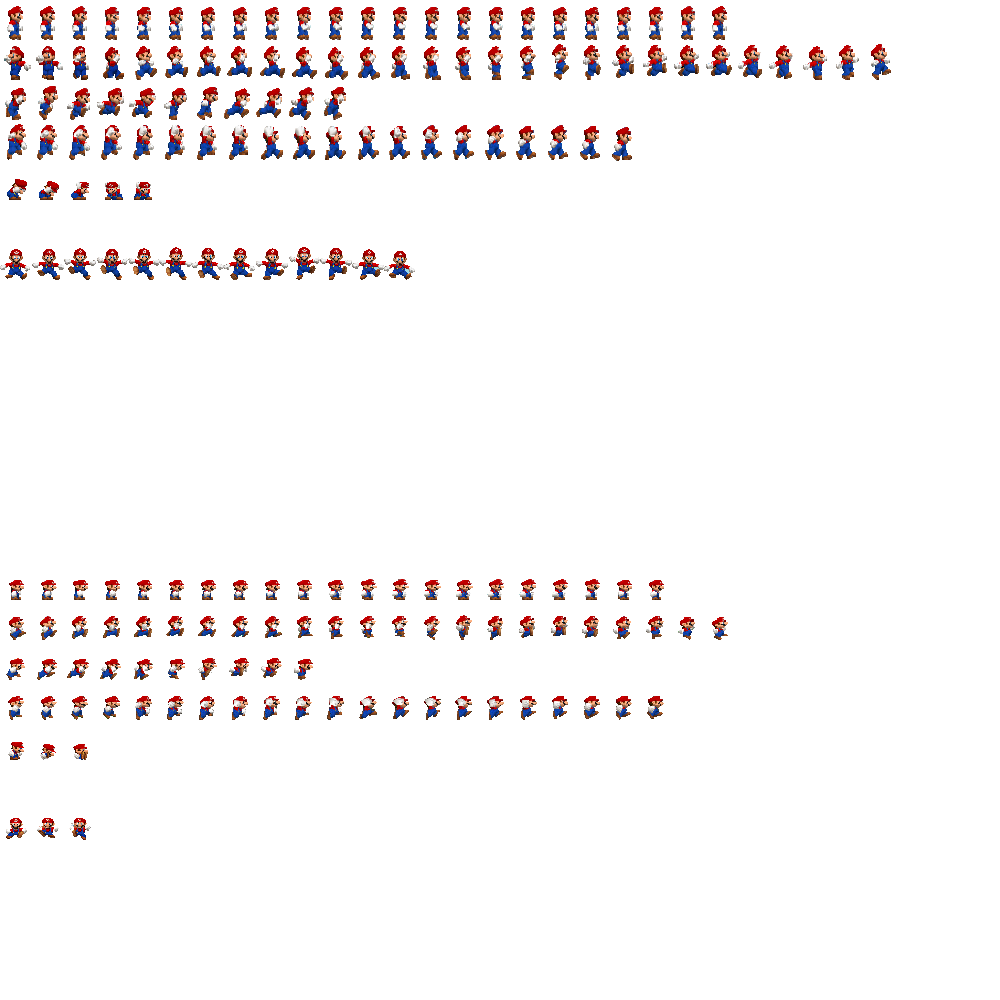
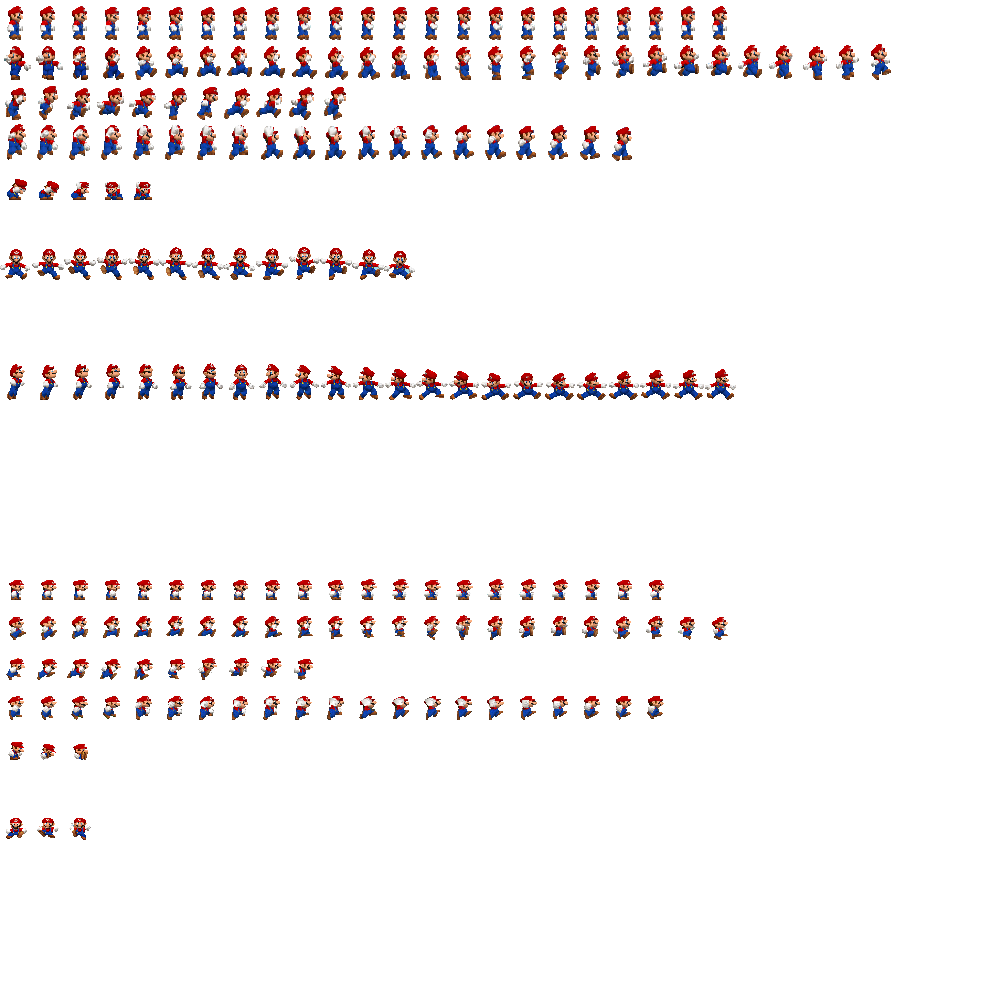
Clear 구현

Changed region(s): [[0.0, 0.372, 0.744, 0.403]]

diff --git a/newSuperMario/Mario_class.py b/newSuperMario/Mario_class.py
@@ -192,6 +192,11 @@ class IdleState:
                 hero.JUMP = True
                 hero.frame = 0
 
+            global BOOL_CLEAR
+            if BOOL_CLEAR:
+                hero.add_event(CLEAR)
+                hero.frame = 0
+
     def draw(hero):
         if hero.grow >= 1:  # 성장 후
             if hero.sit == 1:
@@ -394,6 +399,11 @@ class RunState:
                 hero.JUMP = True
                 hero.frame = 0
 
+            global BOOL_CLEAR
+            if BOOL_CLEAR:
+                hero.add_event(CLEAR)
+                hero.frame = 0
+
     def draw(hero):
         if hero.grow >= 1:  # 성장 후
             if hero.y > hero.py:
@@ -508,21 +518,37 @@ class ClearState:
         pass
 
     def do(hero):
-        pass
+        hero.frame = (hero.frame + 10 * game_framework.frame_time)
+
+        if hero.frame > 22:
+            hero.frame = 22
+
+        hero.x += 300.0 * game_framework.frame_time
+        hero.y += 300.0 * game_framework.frame_time
+
+        if hero.y >= 1000:
+            global BOOL_CLEAR
+            game_framework.change_state(Life_state) # 다음 장면
+            BOOL_CLEAR = False
 
     def draw(hero):
-        pass
+        hero.image.clip_composite_draw(int(hero.frame) * 32, 1000 - 10 * 40, 32, 40, 0, 'h', hero.x, hero.y,
+                                       hero.size[0], hero.size[1])
+
 
 next_state_table = {
 IdleState:{RIGHT_DOWN: RunState, LEFT_DOWN: RunState, RIGHT_UP: IdleState, LEFT_UP: IdleState,
            UP_DOWN: IdleState, UP_UP: IdleState, DOWN_DOWN: IdleState, DOWN_UP: IdleState,
-           STOP_RUN: IdleState, DIE: DieState , SPACE: IdleState},
+           STOP_RUN: IdleState, DIE: DieState , SPACE: IdleState, CLEAR: ClearState},
 RunState:{RIGHT_DOWN: RunState, LEFT_DOWN: RunState, RIGHT_UP: RunState, LEFT_UP: RunState,
           UP_DOWN: RunState, UP_UP: RunState, DOWN_DOWN: IdleState, DOWN_UP: RunState,
-          STOP_RUN: IdleState, DIE: DieState , SPACE: RunState},
+          STOP_RUN: IdleState, DIE: DieState , SPACE: RunState, CLEAR: ClearState},
 DieState:{RIGHT_DOWN: DieState, LEFT_DOWN: DieState, RIGHT_UP: DieState, LEFT_UP: DieState,
           UP_DOWN: DieState, UP_UP: DieState, DOWN_DOWN: DieState, DOWN_UP: DieState,
-          STOP_RUN: IdleState, DIE: DieState, SPACE: DieState}
+          STOP_RUN: IdleState, DIE: DieState, SPACE: DieState, CLEAR: ClearState},
+ClearState:{RIGHT_DOWN: ClearState, LEFT_DOWN: ClearState, RIGHT_UP: ClearState, LEFT_UP: ClearState,
+          UP_DOWN: ClearState, UP_UP: ClearState, DOWN_DOWN: ClearState, DOWN_UP: ClearState,
+          STOP_RUN: ClearState, DIE: ClearState, SPACE: ClearState, CLEAR: ClearState}
 }
 
 class hero:
@@ -539,7 +565,7 @@ class hero:
         self.velocity = 0
         self.collect = 0
         self.xspeed = 0
-        self.xMAX = 500.0
+        self.xMAX = 5000.0
         self.xa = 4.0
         self.frame = 0
         self.fs = 0
@@ -600,110 +626,115 @@ class hero:
         global SET_BLOCK
         global DEL_TIME
         global temp_grow, temp2_grow
+        global BOOL_CLEAR
+        if not BOOL_CLEAR:
+            for eat in coin + item:  # 먹으면 사라지는 객체
+                if contact_aAndb(self, eat) > 0:
+                    if eat.ability == 0:
+                        coin.remove(eat)
+                    elif eat.ability >= 300 and eat.ability <= 304:
+                        if eat.ability == 300:  # 버섯
+                            if self.grow < 1:
+                                DEL_TIME = 0
+                                temp2_grow = self.grow
+                                temp_grow = 1
+                        elif eat.ability == 302:  # 꽃
+                            if self.grow < 2:
+                                DEL_TIME = 0
+                                temp2_grow = self.grow
+                                temp_grow = 2
 
-        for eat in coin + item:  # 먹으면 사라지는 객체
-            if contact_aAndb(self, eat) > 0:
-                if eat.ability == 0:
-                    coin.remove(eat)
-                elif eat.ability >= 300 and eat.ability <= 304:
-                    if eat.ability == 300:  # 버섯
-                        if self.grow < 1:
-                            DEL_TIME = 0
-                            temp2_grow = self.grow
-                            temp_grow = 1
-                    elif eat.ability == 302:  # 꽃
-                        if self.grow < 2:
-                            DEL_TIME = 0
-                            temp2_grow = self.grow
-                            temp_grow = 2
+                        item.remove(eat)
+                    game_world.remove_object(eat)
 
-                    item.remove(eat)
-                game_world.remove_object(eat)
+            for block in Qblock + brick + skbrick + Steelblock:  # 블럭
+                if contact_aAndb(self, block) == 2:  # 위서 아래로
+                    if self.py < block.y + block.size[1] + 3:
+                        self.py = block.y + block.size[1] + 3
+                    if block.ability == 99:
+                        self.py = block.y + block.size[1]
+                    SET_BLOCK = block
+                elif contact_aAndb(self, block) == 3:  # 좌우
+                    self.x -= self.velocity * self.xspeed * game_framework.frame_time
+                    if self.cur_state == IdleState and self.velocity == 0:
+                        self.x -= self.dir * self.xspeed * game_framework.frame_time
+                elif contact_aAndb(self, block) == 1:  # 아래서 위로
+                    self.JUMP = False
+                    if block.ability >= 100 and block.ability <= 109:
+                        if block.ability == 100:
+                            t = object_class.debris(block.crex, block.crey + 24, 201)
+                            t.movex = block.movex
+                            t.movey = block.movey
+                            game_world.add_object(t, 1)
 
-        for block in Qblock + brick + skbrick + Steelblock:  # 블럭
-            if contact_aAndb(self, block) == 2:  # 위서 아래로
-                if self.py < block.y + block.size[1] + 3:
-                    self.py = block.y + block.size[1] + 3
-                if block.ability == 99:
-                    self.py = block.y + block.size[1]
-                SET_BLOCK = block
-            elif contact_aAndb(self, block) == 3:  # 좌우
-                self.x -= self.velocity * self.xspeed * game_framework.frame_time
-                if self.cur_state == IdleState and self.velocity == 0:
-                    self.x -= self.dir * self.xspeed * game_framework.frame_time
-            elif contact_aAndb(self, block) == 1:  # 아래서 위로
-                self.JUMP = False
-                if block.ability >= 100 and block.ability <= 109:
-                    if block.ability == 100:
+                        if block.ability >= 101:
+                            t = object_class.object_item(block.crex, block.crey + 25, 1299 + (block.ability % 100))
+                            t.movex = block.movex
+                            t.movey = block.movey
+                            t.set_block = block
+                            t.frame = 0
+                            item.append(t)
+                            game_world.add_object(t, 1)
+
+                        block.ability = block.ability + 10
+                        block.frame = 0
+                        block.fs = 0
+
+                    if block.ability == 4:
+                        block.ability = 5
+                    elif block.ability == 5:
+                        block.ability = 4
+
+                    if block.ability == 2 and self.grow >= 1:
+                        if block in brick:
+                            brick.remove(block)
+                        game_world.remove_object(block)
+
+                        t = object_class.debris(block.crex - 5, block.crey, 200, 1, 1)
+                        t.movex = block.movex
+                        t.movey = block.movey
+                        game_world.add_object(t, 1)
+
+                        t = object_class.debris(block.crex + 5, block.crey, 200, -1)
+                        t.movex = block.movex
+                        t.movey = block.movey
+                        game_world.add_object(t, 1)
+
+                        t = object_class.debris(block.crex, block.crey + 20, 200, 1, 1)
+                        t.movex = block.movex
+                        t.movey = block.movey
+                        game_world.add_object(t, 1)
+
+                        t = object_class.debris(block.crex, block.crey + 20, 200, -1)
+                        t.movex = block.movex
+                        t.movey = block.movey
+                        game_world.add_object(t, 1)
+
+                    if block.ability == 3:
                         t = object_class.debris(block.crex, block.crey + 24, 201)
                         t.movex = block.movex
                         t.movey = block.movey
                         game_world.add_object(t, 1)
 
-                    if block.ability >= 101:
-                        t = object_class.object_item(block.crex, block.crey + 25, 1299 + (block.ability % 100))
-                        t.movex = block.movex
-                        t.movey = block.movey
-                        t.set_block = block
-                        t.frame = 0
-                        item.append(t)
-                        game_world.add_object(t, 1)
 
-                    block.ability = block.ability + 10
-                    block.frame = 0
-                    block.fs = 0
-
-                if block.ability == 4:
-                    block.ability = 5
-                elif block.ability == 5:
-                    block.ability = 4
-
-                if block.ability == 2 and self.grow >= 1:
-                    if block in brick:
-                        brick.remove(block)
-                    game_world.remove_object(block)
-
-                    t = object_class.debris(block.crex - 5, block.crey, 200, 1, 1)
-                    t.movex = block.movex
-                    t.movey = block.movey
-                    game_world.add_object(t, 1)
-
-                    t = object_class.debris(block.crex + 5, block.crey, 200, -1)
-                    t.movex = block.movex
-                    t.movey = block.movey
-                    game_world.add_object(t, 1)
-
-                    t = object_class.debris(block.crex, block.crey + 20, 200, 1, 1)
-                    t.movex = block.movex
-                    t.movey = block.movey
-                    game_world.add_object(t, 1)
-
-                    t = object_class.debris(block.crex, block.crey + 20, 200, -1)
-                    t.movex = block.movex
-                    t.movey = block.movey
-                    game_world.add_object(t, 1)
-
-                if block.ability == 3:
-                    t = object_class.debris(block.crex, block.crey + 24, 201)
-                    t.movex = block.movex
-                    t.movey = block.movey
-                    game_world.add_object(t, 1)
+            for block in grounds:  # 블럭
+                if contact_aAndb(self, block) == 2:  # 위서 아래로
+                    if self.py < block.y + block.size[1] + self.size[1] / 2 + 1:
+                        self.py = block.y + block.size[1] + self.size[1] / 2 + 1
+                    SET_BLOCK = block
+                elif contact_aAndb(self, block) == 3:  # 좌우
+                    self.x -= self.velocity * self.xspeed * game_framework.frame_time
+                    if self.cur_state == IdleState and self.velocity == 0:
+                        self.x -= self.dir * self.xspeed * game_framework.frame_time
 
 
-        for block in grounds:  # 블럭
-            if contact_aAndb(self, block) == 2:  # 위서 아래로
-                if self.py < block.y + block.size[1] + self.size[1] / 2 + 1:
-                    self.py = block.y + block.size[1] + self.size[1] / 2 + 1
-                SET_BLOCK = block
-            elif contact_aAndb(self, block) == 3:  # 좌우
-                self.x -= self.velocity * self.xspeed * game_framework.frame_time
-                if self.cur_state == IdleState and self.velocity == 0:
-                    self.x -= self.dir * self.xspeed * game_framework.frame_time
-            elif contact_aAndb(self, block) == 1:  # 아래서 위로
-                self.JUMP = False
-        if not SET_BLOCK == None:
-            if not contact_aAndb(self, SET_BLOCK, 3) > 0:
-                self.py = 0
+                    if block.ability == 950: # 깃발
+                        BOOL_CLEAR = True
+                elif contact_aAndb(self, block) == 1:  # 아래서 위로
+                    self.JUMP = False
+            if not SET_BLOCK == None:
+                if not contact_aAndb(self, SET_BLOCK, 3) > 0:
+                    self.py = 0
 
     def fire_ball(self):
         if self.grow == 2:

diff --git a/newSuperMario/object_variable.py b/newSuperMario/object_variable.py
@@ -19,3 +19,5 @@ SET_BLOCK = None
 CHANGE_TIME = None
 CHANGE_image = None
 CHANGE_INOUT = None
+
+BOOL_CLEAR = False
